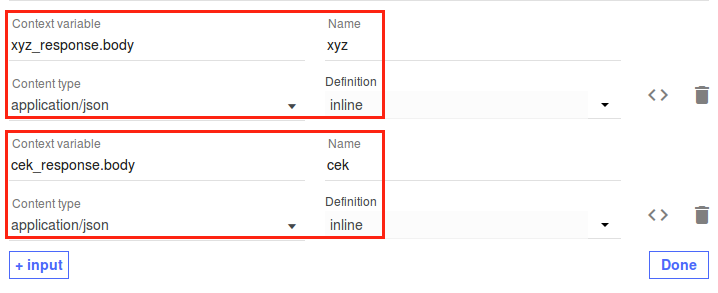
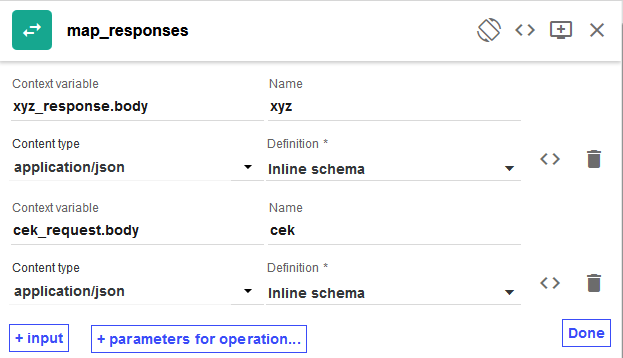
update screenshots lab5

diff --git a/labs/lab5.md b/labs/lab5.md
@@ -376,7 +376,7 @@ This operation will end up invoking two separate back-end services to acquire sh
 
 1.  Add a `map` policy after the last invoke, then click it to open the editor.
 
-1.  Click the `gear` icon next to Map and specify the following map properties:
+1.  Click the `gear` icon next to Map and specify the following map properties.  Click `done` when finished:
   
     > Title: `map_responses`
     >
@@ -386,7 +386,7 @@ This operation will end up invoking two separate back-end services to acquire sh
 
     ![](https://github.com/ibm-apiconnect/pot/raw/gh-pages/images/lab5/logistics-map-propertiesa.png)
 
-1.  Click the `+ input` button to add an input. Specify the following input configuration:
+1.  Click the pencil button to add an input. Specify the following input configuration:
   
     > Context variable: `xyz_response.body`
     >
@@ -437,7 +437,7 @@ This operation will end up invoking two separate back-end services to acquire sh
 	
     ![](https://github.com/ibm-apiconnect/pot/raw/gh-pages/images/lab5/logistics-map-xyz-schema.png)
 
-1.  Click the `+input` button again to add another input. Specify the following input configuration:
+1.  Click the pencil button again to add another input. Specify the following input configuration:
   
     > Context variable: `cek_response.body`
     >
@@ -540,7 +540,7 @@ This operation will call out to the Google Geocode API to obtain location inform
 
     ![](https://github.com/ibm-apiconnect/pot/raw/gh-pages/images/lab5/logistics_assembly_complete.png)
 
-    {% include troubleshooting.html content="There is an `exclamation mark` badge in `invoke_xyz`.  You may ignore this message.
+    {% include troubleshooting.html content="There may be an `exclamation mark` badge in `invoke_xyz` or `invoke_google`.  You may ignore this message.
     " %}
 
 1.  Save your changes.
